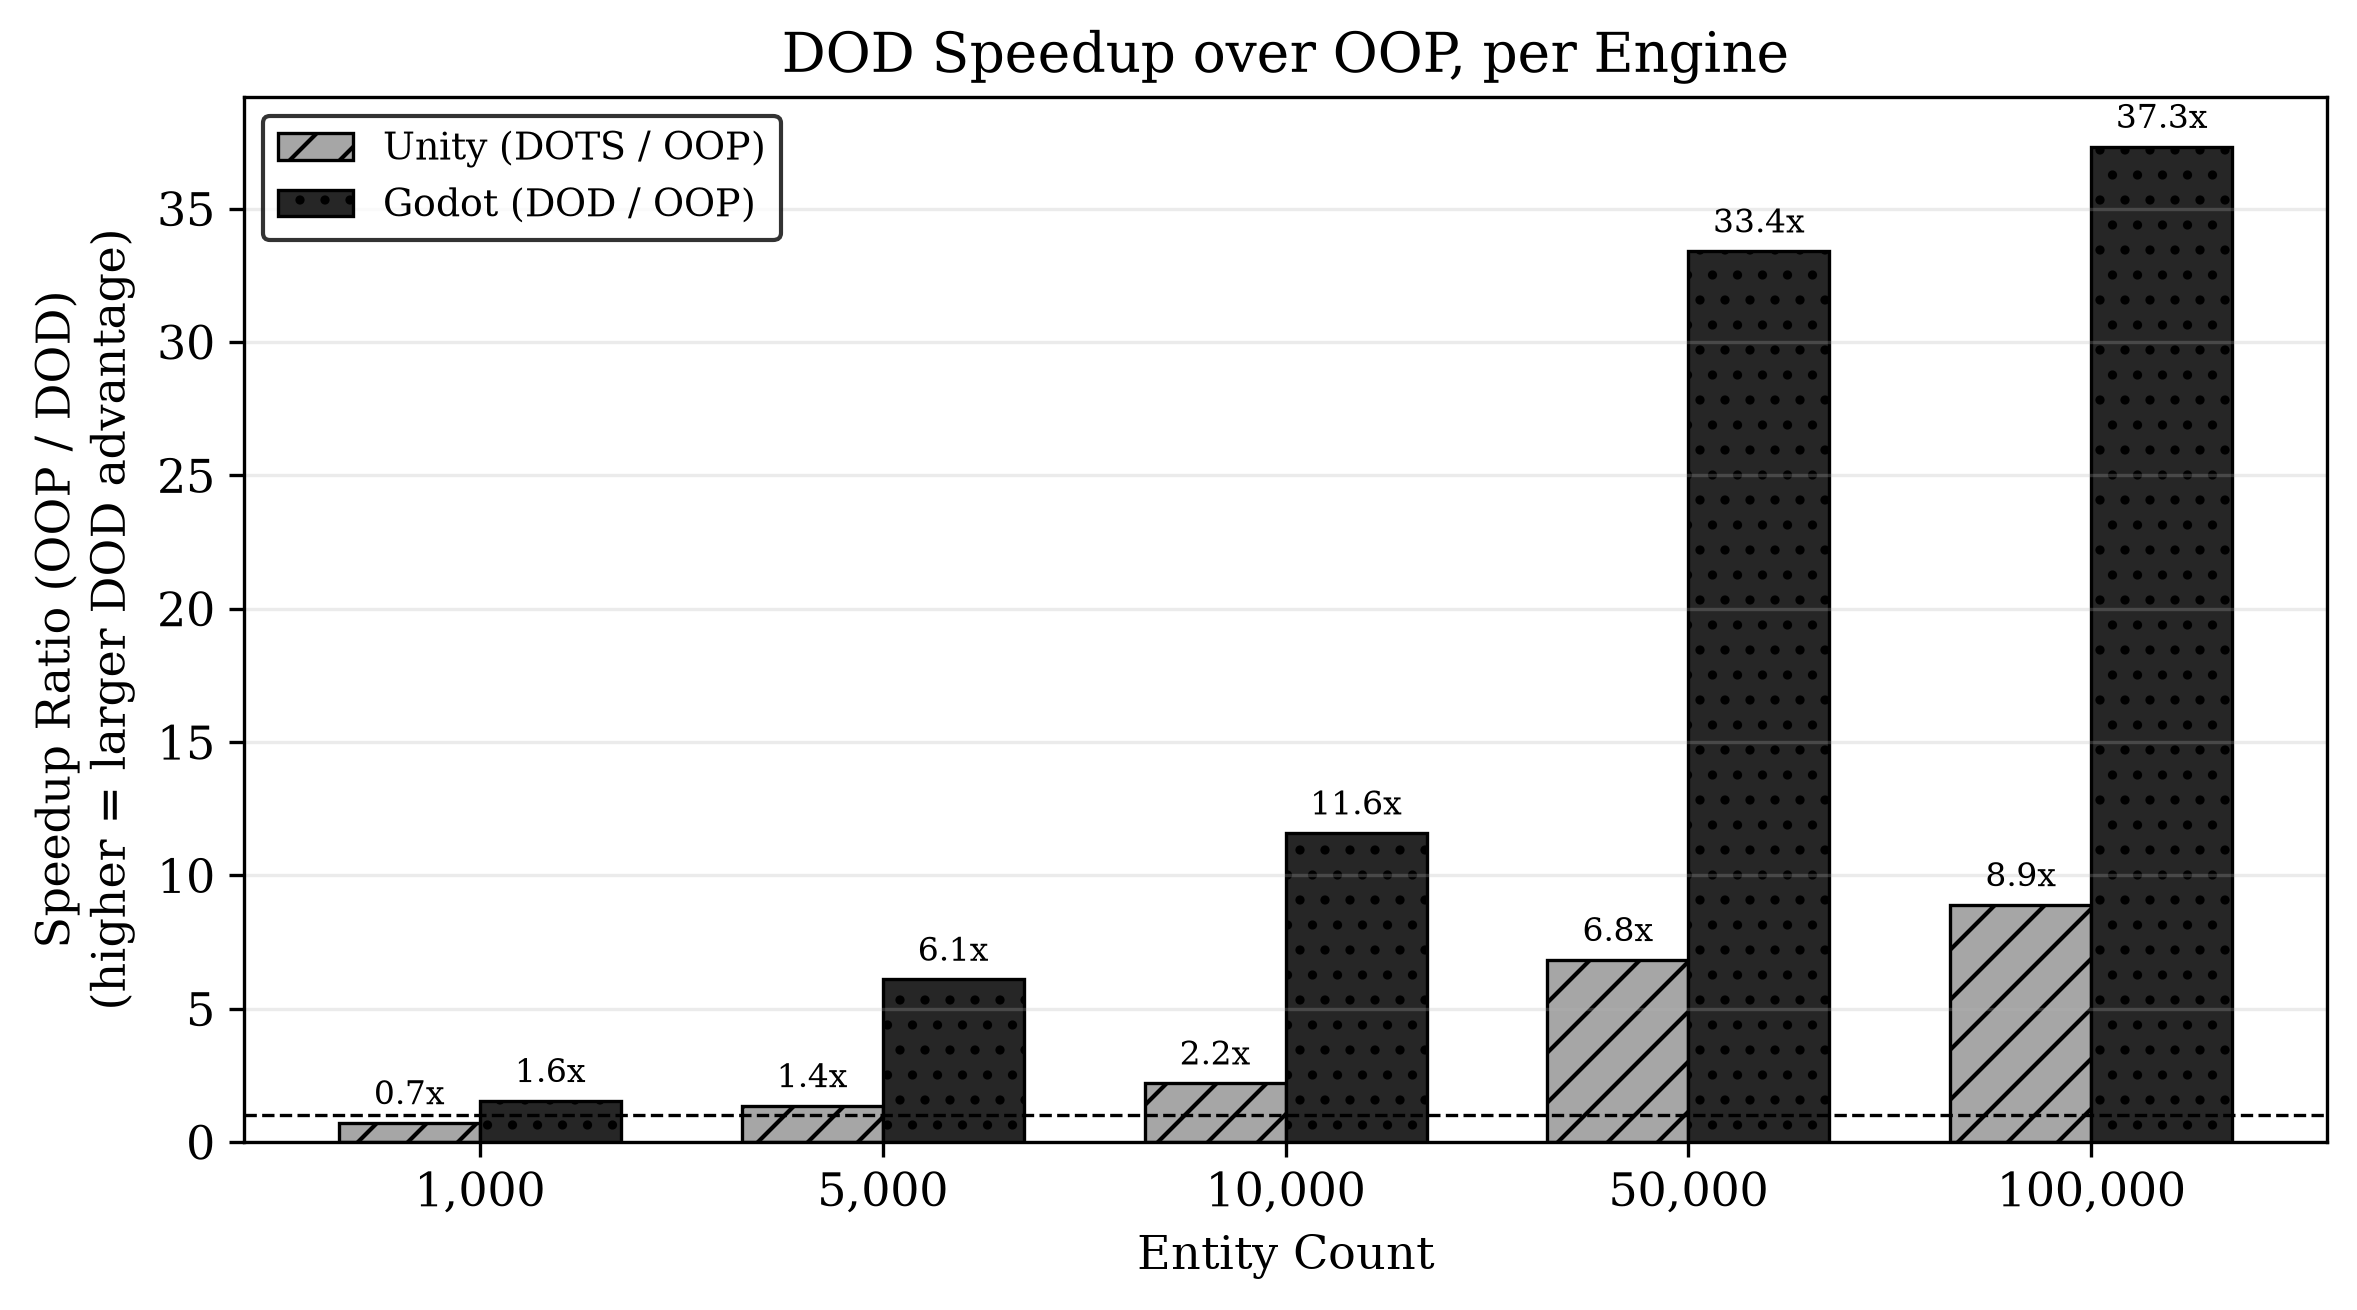
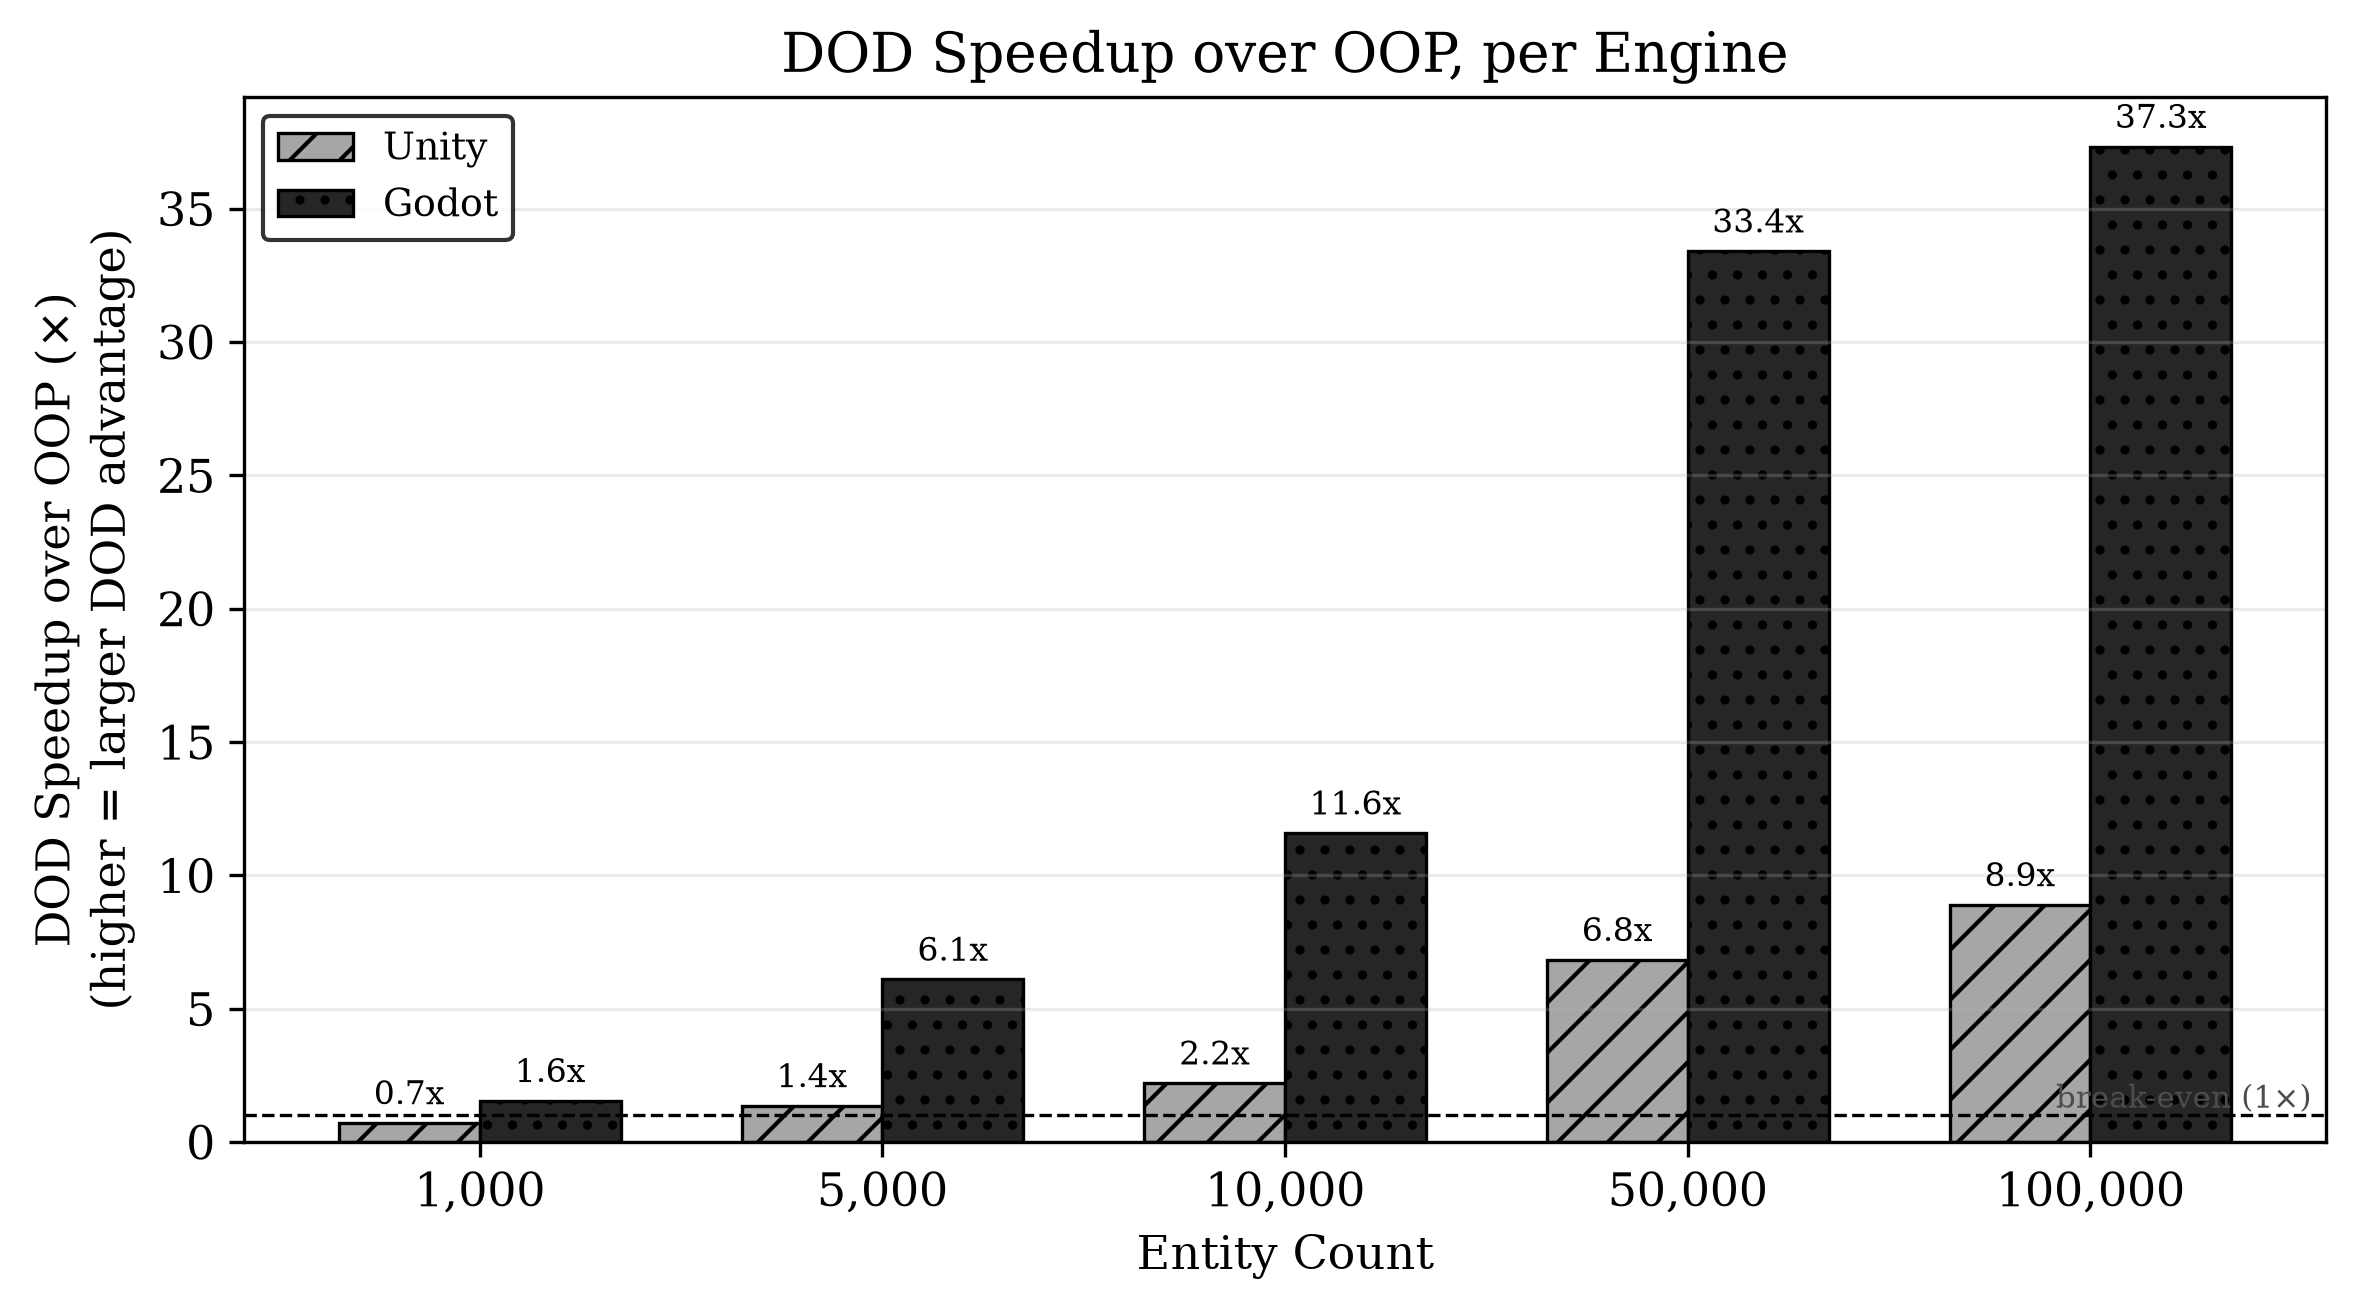
Fix fig2 speedup-ratio labels: consistent DOD-over-OOP direction
The chart previously used three conflicting directional labels for the
same quantity (title "DOD Speedup over OOP", y-axis "OOP / DOD", legend
"DOTS / OOP" and "DOD / OOP"). Unified them: the plotted value is the
DOD-over-OOP speedup factor (T_OOP / T_DOD), so the y-axis now reads
"DOD Speedup over OOP (x)" and the legend is simplified to engine names
only (Unity, Godot). Added a labeled break-even (1x) reference line so
Unity's sub-1x point at 1,000 entities is unambiguous.

diff --git a/analysis/analyze.py b/analysis/analyze.py
@@ -161,14 +161,16 @@ unity_ratios = [avg["Unity OOP"]["AvgFrameTime_ms"][ec] /
 godot_ratios = [avg["Godot OOP"]["AvgFrameTime_ms"][ec] /
                 avg["Godot DOD"]["AvgFrameTime_ms"][ec] for ec in ENTITY_COUNTS]
 
-bars1 = ax3.bar(x - width/2, unity_ratios, width, label="Unity (DOTS / OOP)",
+bars1 = ax3.bar(x - width/2, unity_ratios, width, label="Unity",
                 color="0.65", edgecolor="black", linewidth=0.8, hatch="//")
-bars2 = ax3.bar(x + width/2, godot_ratios, width, label="Godot (DOD / OOP)",
+bars2 = ax3.bar(x + width/2, godot_ratios, width, label="Godot",
                 color="0.15", edgecolor="black", linewidth=0.8, hatch="..")
 
 ax3.axhline(1, color="black", linewidth=0.8, linestyle="--")
+ax3.text(len(ENTITY_COUNTS) - 0.45, 1.0, "break-even (1$\\times$)",
+         ha="right", va="bottom", fontsize=7.5, color="0.3")
 ax3.set_xlabel("Entity Count")
-ax3.set_ylabel("Speedup Ratio (OOP / DOD)\n(higher = larger DOD advantage)")
+ax3.set_ylabel("DOD Speedup over OOP ($\\times$)\n(higher = larger DOD advantage)")
 ax3.set_title("DOD Speedup over OOP, per Engine")
 ax3.set_xticks(x)
 ax3.set_xticklabels([f"{ec:,}" for ec in ENTITY_COUNTS])
